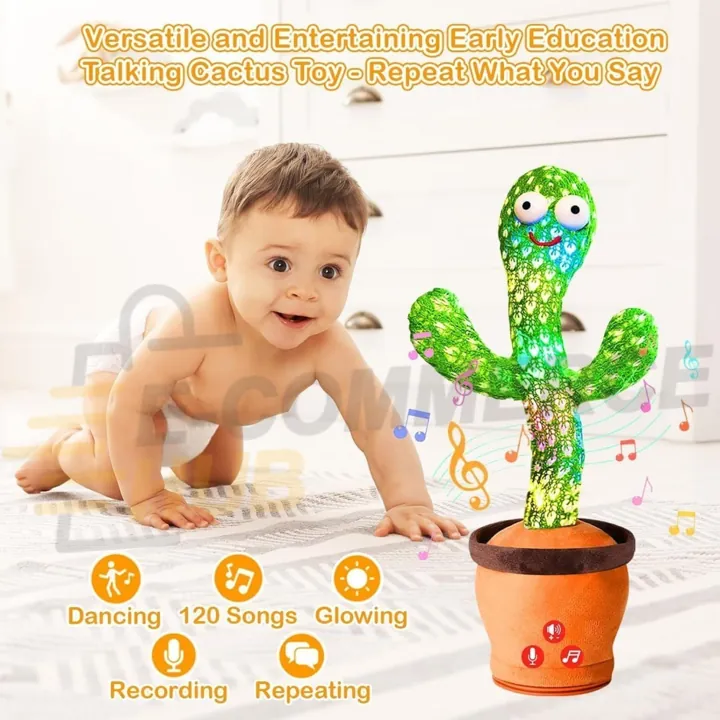
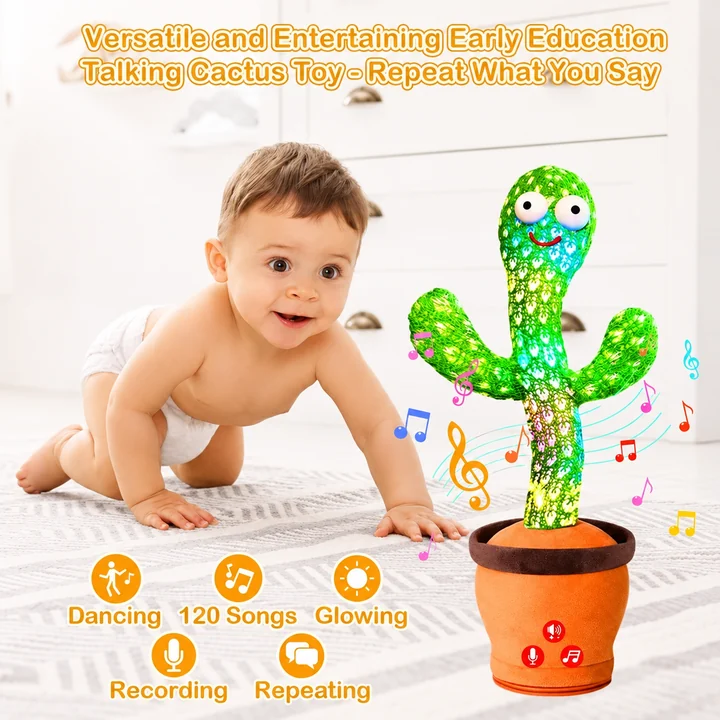
Remove watermark from three catalog product photos

diff --git a/index.html b/index.html
@@ -1,3 +1,3 @@
-<!doctype html><html lang="en"><head><meta charset="utf-8"><meta name="viewport" content="width=device-width,initial-scale=1"><title>Dutchdown | Honest Products. Honest Prices.</title><meta name="description" content="Shop Dutchdown home essentials, kitchen helpers and gifts. Send your order directly on WhatsApp."><link rel="stylesheet" href="style.css?v=20261031-products"></head><body><a class="skip-link" href="#collection">Skip to products</a><header><a class="brand" href="#">dutchdown<span>HOME • KITCHEN • GIFTS</span></a><nav><a href="#collection">Shop collection</a><a href="#how">How to order</a><a class="header-whatsapp" href="https://wa.me/919016304096">WhatsApp ↗</a></nav></header><main><section id="collection"><div class="section-head"><div><p class="eyebrow">THE DUTCHDOWN COLLECTION</p><h2 aria-level="1">Made for your everyday.</h2></div><span id="collection-count">7 thoughtful finds</span></div><div class="catalog-tools" hidden><label for="product-search">Find your everyday essentials</label><div class="search-wrap"><input id="product-search" type="search" placeholder="Search products, e.g. mop or grinder" autocomplete="off" maxlength="100" aria-controls="products"><button id="clear-search" type="button" hidden>Clear search</button></div></div><div class="filters" hidden role="group" aria-label="Product categories"><button class="active" aria-pressed="true" data-category="All">All finds</button><button aria-pressed="false" data-category="Kitchen">Kitchen</button><button aria-pressed="false" data-category="Cleaning">Cleaning</button><button aria-pressed="false" data-category="Gifts">Gifts</button></div><p id="notice" class="catalog-summary" role="status" aria-live="polite">7 products</p><div id="products" class="grid"><article class="card" data-category="Cleaning"><div class="photo"><img src="assets/spray-mop.webp" width="720" height="842" alt="Healthy Spray Mop" fetchpriority="high" decoding="async"></div><details class="product-reel"><summary>▶ Watch product reel</summary><video controls playsinline preload="none" poster="assets/spray-mop.webp" width="640" height="360" aria-label="Healthy Spray Mop product reel"><source data-src="assets/spray-mop-demo.mp4" type="video/mp4"><a href="assets/spray-mop-demo.mp4">Open the spray mop reel</a></video><noscript><p><a href="assets/spray-mop-demo.mp4">Open the product reel ↗</a></p></noscript><p class="micro">Tap play to watch with sound.</p></details><p class="category">CLEANING</p><h3>Healthy Spray Mop</h3><p class="description">Spray and wipe with a handy refillable bottle.</p><div class="card-bottom"><strong>₹399</strong><a class="direct-order" href="https://wa.me/919016304096?text=Hello+Dutchdown%21+I+would+like+to+order%3A%0AHealthy+Spray+Mop+%C3%97+1+%E2%80%94+%E2%82%B9399%0ADelivery+charges%3A+please+confirm.%0APlease+confirm+availability%2C+payment+options+and+my+order." aria-label="Order Healthy Spray Mop on WhatsApp">Order on WhatsApp ↗</a></div></article><article class="card" id="fashion-sling-bag" data-product-id="fashion-sling-bag" data-category="Accessories"><div class="photo"><img src="assets/fashion-sling-bag.webp" width="679" height="679" alt="Fashion Crossbody Sling Bag" loading="lazy" decoding="async"></div><p class="category">ACCESSORIES</p><h3>Fashion Crossbody Sling Bag</h3><p class="description">Keep everyday essentials close with zipped compartments, a front pocket and an adjustable shoulder strap.</p><div class="card-bottom"><strong>₹419</strong><a class="direct-order" href="https://wa.me/919016304096?text=Hello%20Dutchdown!%20I%20would%20like%20to%20order%3A%0AFashion%20Crossbody%20Sling%20Bag%20%C3%97%201%20%E2%80%94%20%E2%82%B9419%0ADelivery%20charges%3A%20please%20confirm.%0APlease%20confirm%20availability%2C%20payment%20options%20and%20my%20order." aria-label="Order Fashion Crossbody Sling Bag on WhatsApp">Order on WhatsApp ↗</a></div></article><article class="card" id="k12-speaker-mic" data-product-id="k12-speaker-mic" data-category="Electronics"><div class="photo"><img src="assets/k12-speaker-mic.webp" width="960" height="960" alt="K12 Karaoke Speaker with Microphone" loading="lazy" decoding="async"></div><details class="product-reel"><summary>▶ Watch product reel</summary><video controls playsinline preload="none" poster="assets/k12-speaker-mic.webp" width="360" height="640" aria-label="K12 Karaoke Speaker with Microphone product reel"><source data-src="assets/k12-speaker-mic-demo.mp4" type="video/mp4"><a href="assets/k12-speaker-mic-demo.mp4">Open the product reel</a></video><noscript><p><a href="assets/k12-speaker-mic-demo.mp4">Open the product reel ↗</a></p></noscript><p class="micro">Tap play to watch with sound.</p></details><p class="category">ELECTRONICS</p><h3>K12 Karaoke Speaker with Microphone</h3><p class="description">A portable mini speaker with microphone, a carry handle and colourful lights for family sing-alongs.</p><div class="card-bottom"><strong>₹399</strong><a class="direct-order" href="https://wa.me/919016304096?text=Hello%20Dutchdown!%20I%20would%20like%20to%20order%3A%0AK12%20Karaoke%20Speaker%20with%20Microphone%20%C3%97%201%20%E2%80%94%20%E2%82%B9399%0ADelivery%20charges%3A%20please%20confirm.%0APlease%20confirm%20availability%2C%20payment%20options%20and%20my%20order." aria-label="Order K12 Karaoke Speaker with Microphone on WhatsApp">Order on WhatsApp ↗</a></div></article><article class="card" data-category="Gifts"><div class="photo"><img src="assets/cactus.webp" width="720" height="720" alt="Talking Cactus Baby Toys for Kids Dancing Cactus" loading="lazy" decoding="async"></div><details class="product-reel"><summary>▶ Watch product reel</summary><video controls playsinline preload="none" poster="assets/cactus.webp" width="360" height="640" aria-label="Talking and dancing cactus product reel"><source data-src="assets/cactus-demo.mp4" type="video/mp4"><a href="assets/cactus-demo.mp4">Open the cactus reel</a></video><noscript><p><a href="assets/cactus-demo.mp4">Open the product reel ↗</a></p></noscript><p class="micro">Tap play to watch with sound.</p></details><p class="category">GIFTS</p><h3>Talking Cactus Baby Toys for Kids Dancing Cactus</h3><p class="description">A playful talking and dancing cactus toy for kids.</p><div class="card-bottom"><strong>₹369</strong><a class="direct-order" href="https://wa.me/919016304096?text=Hello+Dutchdown%21+I+would+like+to+order%3A%0ATalking+Cactus+Baby+Toys+for+Kids+Dancing+Cactus+%C3%97+1+%E2%80%94+%E2%82%B9369%0ADelivery+charges%3A+please+confirm.%0APlease+confirm+availability%2C+payment+options+and+my+order." aria-label="Order Talking Cactus Baby Toys for Kids Dancing Cactus on WhatsApp">Order on WhatsApp ↗</a></div></article><article class="card" data-category="Kitchen"><div class="photo"><img src="assets/grinder.webp" width="506" height="900" alt="Mini Grinder Mixer for Multipurpose" loading="lazy" decoding="async"></div><details class="product-reel"><summary>▶ Watch product reel</summary><video controls playsinline preload="none" poster="assets/grinder.webp" width="360" height="640" aria-label="Mini Grinder Mixer product reel"><source data-src="assets/grinder-demo.mp4" type="video/mp4"><a href="assets/grinder-demo.mp4">Open the grinder reel</a></video><noscript><p><a href="assets/grinder-demo.mp4">Open the product reel ↗</a></p></noscript><p class="micro">Tap play to watch with sound.</p></details><p class="category">KITCHEN</p><h3>Mini Grinder Mixer for Multipurpose</h3><p class="description">A compact addition to your everyday kitchen.</p><div class="card-bottom"><strong>₹399</strong><a class="direct-order" href="https://wa.me/919016304096?text=Hello+Dutchdown%21+I+would+like+to+order%3A%0AMini+Grinder+Mixer+for+Multipurpose+%C3%97+1+%E2%80%94+%E2%82%B9399%0ADelivery+charges%3A+please+confirm.%0APlease+confirm+availability%2C+payment+options+and+my+order." aria-label="Order Mini Grinder Mixer for Multipurpose on WhatsApp">Order on WhatsApp ↗</a></div></article><article class="card" id="48-toy-cars" data-product-id="48-toy-cars" data-category="Gifts"><div class="photo"><img src="assets/cars-collection-20261031.webp" width="522" height="522" alt="48 Toy Cars Gift Set for Kids" loading="lazy" decoding="async"><span class="badge">FREE DELIVERY</span></div><details class="product-reel"><summary>▶ Watch product reel</summary><video controls playsinline preload="none" poster="assets/cars-collection-20261031.webp" width="480" height="854" aria-label="48 Toy Cars Gift Set product reel"><source data-src="assets/cars-collection-20261031.mp4" type="video/mp4"><a href="assets/cars-collection-20261031.mp4">Open the toy cars reel</a></video><noscript><p><a href="assets/cars-collection-20261031.mp4">Open the product reel ↗</a></p></noscript><p class="micro">Tap play to watch with sound. Our price: ₹699 with free delivery.</p></details><p class="category">GIFTS</p><h3>48 Toy Cars Gift Set for Kids</h3><p class="description">A colourful 48-car gift set for little car fans.</p><div class="card-bottom"><strong>₹699</strong><a class="direct-order" href="https://wa.me/919016304096?text=Hello%20Dutchdown!%20I%20would%20like%20to%20order%3A%0A48%20Toy%20Cars%20Gift%20Set%20for%20Kids%20%C3%97%201%20%E2%80%94%20%E2%82%B9699%0ADelivery%3A%20FREE%0APlease%20confirm%20availability%2C%20payment%20options%20and%20my%20order." aria-label="Order 48 Toy Cars Gift Set for Kids on WhatsApp">Order on WhatsApp ↗</a></div></article><article class="card" data-category="Cleaning"><div class="photo"><img src="assets/x-mop.webp" width="720" height="754" alt="X Shape Mop" loading="lazy" decoding="async"></div><details class="product-reel"><summary>▶ Watch product reel</summary><video controls playsinline preload="none" poster="assets/x-mop.webp" width="480" height="854" aria-label="X Shape Mop product reel"><source data-src="assets/x-mop-demo.mp4" type="video/mp4"><a href="assets/x-mop-demo.mp4">Open the X Shape Mop reel</a></video><noscript><p><a href="assets/x-mop-demo.mp4">Open the product reel ↗</a></p></noscript><p class="micro">Tap play to watch with sound.</p></details><p class="category">CLEANING</p><h3>X Shape Mop</h3><p class="description">An X-shaped mop with a self-wringing design.</p><div class="card-bottom"><strong>₹399</strong><a class="direct-order" href="https://wa.me/919016304096?text=Hello+Dutchdown%21+I+would+like+to+order%3A%0AX+Shape+Mop+%C3%97+1+%E2%80%94+%E2%82%B9399%0ADelivery+charges%3A+please+confirm.%0APlease+confirm+availability%2C+payment+options+and+my+order." aria-label="Order X Shape Mop on WhatsApp">Order on WhatsApp ↗</a></div></article></div><div id="catalog-empty" class="catalog-empty" hidden><h3>No products found</h3><p>Try a different name or browse all categories.</p><button id="reset-catalog" type="button">Show all products</button></div><nav id="catalog-pagination" class="catalog-pagination" aria-label="Product pages" hidden><button id="previous-page" type="button">Previous</button><span id="page-status">Page 1 of 1</span><button id="next-page" type="button">Next</button></nav></section><section id="how" class="how"><div><p class="eyebrow">NO COMPLICATED CHECKOUT</p><h2>Your favourites.<br>One WhatsApp message.</h2></div><ol><li><b>01</b><strong>Choose your finds</strong><span>Choose the product you would like to order.</span></li><li><b>02</b><strong>Tap Order on WhatsApp</strong><span>Open WhatsApp directly with the product details.</span></li><li><b>03</b><strong>Send on WhatsApp</strong><span>Tap Send, then share your delivery details in the chat.</span></li></ol></section></main><footer><a class="brand" href="#">dutchdown</a><p>A little more ease in every day.</p><div class="footer-contact"><span>Contact us</span><a class="contact-number" href="tel:+919016304096">9016304096</a><a class="contact-whatsapp" href="https://wa.me/919016304096" aria-label="Chat on WhatsApp with Dutchdown at 9016304096">WhatsApp ↗</a></div><small>Availability, delivery charges and payment arrangements are confirmed on WhatsApp.</small></footer><script src="app.js?v=20261031-products" defer></script></body></html>
+<!doctype html><html lang="en"><head><meta charset="utf-8"><meta name="viewport" content="width=device-width,initial-scale=1"><title>Dutchdown | Honest Products. Honest Prices.</title><meta name="description" content="Shop Dutchdown home essentials, kitchen helpers and gifts. Send your order directly on WhatsApp."><link rel="stylesheet" href="style.css?v=20261031-products"></head><body><a class="skip-link" href="#collection">Skip to products</a><header><a class="brand" href="#">dutchdown<span>HOME • KITCHEN • GIFTS</span></a><nav><a href="#collection">Shop collection</a><a href="#how">How to order</a><a class="header-whatsapp" href="https://wa.me/919016304096">WhatsApp ↗</a></nav></header><main><section id="collection"><div class="section-head"><div><p class="eyebrow">THE DUTCHDOWN COLLECTION</p><h2 aria-level="1">Made for your everyday.</h2></div><span id="collection-count">7 thoughtful finds</span></div><div class="catalog-tools" hidden><label for="product-search">Find your everyday essentials</label><div class="search-wrap"><input id="product-search" type="search" placeholder="Search products, e.g. mop or grinder" autocomplete="off" maxlength="100" aria-controls="products"><button id="clear-search" type="button" hidden>Clear search</button></div></div><div class="filters" hidden role="group" aria-label="Product categories"><button class="active" aria-pressed="true" data-category="All">All finds</button><button aria-pressed="false" data-category="Kitchen">Kitchen</button><button aria-pressed="false" data-category="Cleaning">Cleaning</button><button aria-pressed="false" data-category="Gifts">Gifts</button></div><p id="notice" class="catalog-summary" role="status" aria-live="polite">7 products</p><div id="products" class="grid"><article class="card" data-category="Cleaning"><div class="photo"><img src="assets/spray-mop.webp" width="720" height="842" alt="Healthy Spray Mop" fetchpriority="high" decoding="async"></div><details class="product-reel"><summary>▶ Watch product reel</summary><video controls playsinline preload="none" poster="assets/spray-mop.webp" width="640" height="360" aria-label="Healthy Spray Mop product reel"><source data-src="assets/spray-mop-demo.mp4" type="video/mp4"><a href="assets/spray-mop-demo.mp4">Open the spray mop reel</a></video><noscript><p><a href="assets/spray-mop-demo.mp4">Open the product reel ↗</a></p></noscript><p class="micro">Tap play to watch with sound.</p></details><p class="category">CLEANING</p><h3>Healthy Spray Mop</h3><p class="description">Spray and wipe with a handy refillable bottle.</p><div class="card-bottom"><strong>₹399</strong><a class="direct-order" href="https://wa.me/919016304096?text=Hello+Dutchdown%21+I+would+like+to+order%3A%0AHealthy+Spray+Mop+%C3%97+1+%E2%80%94+%E2%82%B9399%0ADelivery+charges%3A+please+confirm.%0APlease+confirm+availability%2C+payment+options+and+my+order." aria-label="Order Healthy Spray Mop on WhatsApp">Order on WhatsApp ↗</a></div></article><article class="card" id="fashion-sling-bag" data-product-id="fashion-sling-bag" data-category="Accessories"><div class="photo"><img src="assets/fashion-sling-bag.webp?v=20261103-clean" width="679" height="679" alt="Fashion Crossbody Sling Bag" loading="lazy" decoding="async"></div><p class="category">ACCESSORIES</p><h3>Fashion Crossbody Sling Bag</h3><p class="description">Keep everyday essentials close with zipped compartments, a front pocket and an adjustable shoulder strap.</p><div class="card-bottom"><strong>₹419</strong><a class="direct-order" href="https://wa.me/919016304096?text=Hello%20Dutchdown!%20I%20would%20like%20to%20order%3A%0AFashion%20Crossbody%20Sling%20Bag%20%C3%97%201%20%E2%80%94%20%E2%82%B9419%0ADelivery%20charges%3A%20please%20confirm.%0APlease%20confirm%20availability%2C%20payment%20options%20and%20my%20order." aria-label="Order Fashion Crossbody Sling Bag on WhatsApp">Order on WhatsApp ↗</a></div></article><article class="card" id="k12-speaker-mic" data-product-id="k12-speaker-mic" data-category="Electronics"><div class="photo"><img src="assets/k12-speaker-mic.webp" width="960" height="960" alt="K12 Karaoke Speaker with Microphone" loading="lazy" decoding="async"></div><details class="product-reel"><summary>▶ Watch product reel</summary><video controls playsinline preload="none" poster="assets/k12-speaker-mic.webp" width="360" height="640" aria-label="K12 Karaoke Speaker with Microphone product reel"><source data-src="assets/k12-speaker-mic-demo.mp4" type="video/mp4"><a href="assets/k12-speaker-mic-demo.mp4">Open the product reel</a></video><noscript><p><a href="assets/k12-speaker-mic-demo.mp4">Open the product reel ↗</a></p></noscript><p class="micro">Tap play to watch with sound.</p></details><p class="category">ELECTRONICS</p><h3>K12 Karaoke Speaker with Microphone</h3><p class="description">A portable mini speaker with microphone, a carry handle and colourful lights for family sing-alongs.</p><div class="card-bottom"><strong>₹399</strong><a class="direct-order" href="https://wa.me/919016304096?text=Hello%20Dutchdown!%20I%20would%20like%20to%20order%3A%0AK12%20Karaoke%20Speaker%20with%20Microphone%20%C3%97%201%20%E2%80%94%20%E2%82%B9399%0ADelivery%20charges%3A%20please%20confirm.%0APlease%20confirm%20availability%2C%20payment%20options%20and%20my%20order." aria-label="Order K12 Karaoke Speaker with Microphone on WhatsApp">Order on WhatsApp ↗</a></div></article><article class="card" data-category="Gifts"><div class="photo"><img src="assets/cactus.webp?v=20261103-clean" width="720" height="720" alt="Talking Cactus Baby Toys for Kids Dancing Cactus" loading="lazy" decoding="async"></div><details class="product-reel"><summary>▶ Watch product reel</summary><video controls playsinline preload="none" poster="assets/cactus.webp?v=20261103-clean" width="360" height="640" aria-label="Talking and dancing cactus product reel"><source data-src="assets/cactus-demo.mp4" type="video/mp4"><a href="assets/cactus-demo.mp4">Open the cactus reel</a></video><noscript><p><a href="assets/cactus-demo.mp4">Open the product reel ↗</a></p></noscript><p class="micro">Tap play to watch with sound.</p></details><p class="category">GIFTS</p><h3>Talking Cactus Baby Toys for Kids Dancing Cactus</h3><p class="description">A playful talking and dancing cactus toy for kids.</p><div class="card-bottom"><strong>₹369</strong><a class="direct-order" href="https://wa.me/919016304096?text=Hello+Dutchdown%21+I+would+like+to+order%3A%0ATalking+Cactus+Baby+Toys+for+Kids+Dancing+Cactus+%C3%97+1+%E2%80%94+%E2%82%B9369%0ADelivery+charges%3A+please+confirm.%0APlease+confirm+availability%2C+payment+options+and+my+order." aria-label="Order Talking Cactus Baby Toys for Kids Dancing Cactus on WhatsApp">Order on WhatsApp ↗</a></div></article><article class="card" data-category="Kitchen"><div class="photo"><img src="assets/grinder.webp" width="506" height="900" alt="Mini Grinder Mixer for Multipurpose" loading="lazy" decoding="async"></div><details class="product-reel"><summary>▶ Watch product reel</summary><video controls playsinline preload="none" poster="assets/grinder.webp" width="360" height="640" aria-label="Mini Grinder Mixer product reel"><source data-src="assets/grinder-demo.mp4" type="video/mp4"><a href="assets/grinder-demo.mp4">Open the grinder reel</a></video><noscript><p><a href="assets/grinder-demo.mp4">Open the product reel ↗</a></p></noscript><p class="micro">Tap play to watch with sound.</p></details><p class="category">KITCHEN</p><h3>Mini Grinder Mixer for Multipurpose</h3><p class="description">A compact addition to your everyday kitchen.</p><div class="card-bottom"><strong>₹399</strong><a class="direct-order" href="https://wa.me/919016304096?text=Hello+Dutchdown%21+I+would+like+to+order%3A%0AMini+Grinder+Mixer+for+Multipurpose+%C3%97+1+%E2%80%94+%E2%82%B9399%0ADelivery+charges%3A+please+confirm.%0APlease+confirm+availability%2C+payment+options+and+my+order." aria-label="Order Mini Grinder Mixer for Multipurpose on WhatsApp">Order on WhatsApp ↗</a></div></article><article class="card" id="48-toy-cars" data-product-id="48-toy-cars" data-category="Gifts"><div class="photo"><img src="assets/cars-collection-20261031.webp?v=20261103-clean" width="522" height="522" alt="48 Toy Cars Gift Set for Kids" loading="lazy" decoding="async"><span class="badge">FREE DELIVERY</span></div><details class="product-reel"><summary>▶ Watch product reel</summary><video controls playsinline preload="none" poster="assets/cars-collection-20261031.webp?v=20261103-clean" width="480" height="854" aria-label="48 Toy Cars Gift Set product reel"><source data-src="assets/cars-collection-20261031.mp4" type="video/mp4"><a href="assets/cars-collection-20261031.mp4">Open the toy cars reel</a></video><noscript><p><a href="assets/cars-collection-20261031.mp4">Open the product reel ↗</a></p></noscript><p class="micro">Tap play to watch with sound. Our price: ₹699 with free delivery.</p></details><p class="category">GIFTS</p><h3>48 Toy Cars Gift Set for Kids</h3><p class="description">A colourful 48-car gift set for little car fans.</p><div class="card-bottom"><strong>₹699</strong><a class="direct-order" href="https://wa.me/919016304096?text=Hello%20Dutchdown!%20I%20would%20like%20to%20order%3A%0A48%20Toy%20Cars%20Gift%20Set%20for%20Kids%20%C3%97%201%20%E2%80%94%20%E2%82%B9699%0ADelivery%3A%20FREE%0APlease%20confirm%20availability%2C%20payment%20options%20and%20my%20order." aria-label="Order 48 Toy Cars Gift Set for Kids on WhatsApp">Order on WhatsApp ↗</a></div></article><article class="card" data-category="Cleaning"><div class="photo"><img src="assets/x-mop.webp" width="720" height="754" alt="X Shape Mop" loading="lazy" decoding="async"></div><details class="product-reel"><summary>▶ Watch product reel</summary><video controls playsinline preload="none" poster="assets/x-mop.webp" width="480" height="854" aria-label="X Shape Mop product reel"><source data-src="assets/x-mop-demo.mp4" type="video/mp4"><a href="assets/x-mop-demo.mp4">Open the X Shape Mop reel</a></video><noscript><p><a href="assets/x-mop-demo.mp4">Open the product reel ↗</a></p></noscript><p class="micro">Tap play to watch with sound.</p></details><p class="category">CLEANING</p><h3>X Shape Mop</h3><p class="description">An X-shaped mop with a self-wringing design.</p><div class="card-bottom"><strong>₹399</strong><a class="direct-order" href="https://wa.me/919016304096?text=Hello+Dutchdown%21+I+would+like+to+order%3A%0AX+Shape+Mop+%C3%97+1+%E2%80%94+%E2%82%B9399%0ADelivery+charges%3A+please+confirm.%0APlease+confirm+availability%2C+payment+options+and+my+order." aria-label="Order X Shape Mop on WhatsApp">Order on WhatsApp ↗</a></div></article></div><div id="catalog-empty" class="catalog-empty" hidden><h3>No products found</h3><p>Try a different name or browse all categories.</p><button id="reset-catalog" type="button">Show all products</button></div><nav id="catalog-pagination" class="catalog-pagination" aria-label="Product pages" hidden><button id="previous-page" type="button">Previous</button><span id="page-status">Page 1 of 1</span><button id="next-page" type="button">Next</button></nav></section><section id="how" class="how"><div><p class="eyebrow">NO COMPLICATED CHECKOUT</p><h2>Your favourites.<br>One WhatsApp message.</h2></div><ol><li><b>01</b><strong>Choose your finds</strong><span>Choose the product you would like to order.</span></li><li><b>02</b><strong>Tap Order on WhatsApp</strong><span>Open WhatsApp directly with the product details.</span></li><li><b>03</b><strong>Send on WhatsApp</strong><span>Tap Send, then share your delivery details in the chat.</span></li></ol></section></main><footer><a class="brand" href="#">dutchdown</a><p>A little more ease in every day.</p><div class="footer-contact"><span>Contact us</span><a class="contact-number" href="tel:+919016304096">9016304096</a><a class="contact-whatsapp" href="https://wa.me/919016304096" aria-label="Chat on WhatsApp with Dutchdown at 9016304096">WhatsApp ↗</a></div><small>Availability, delivery charges and payment arrangements are confirmed on WhatsApp.</small></footer><script src="app.js?v=20261031-products" defer></script></body></html>
 
 
